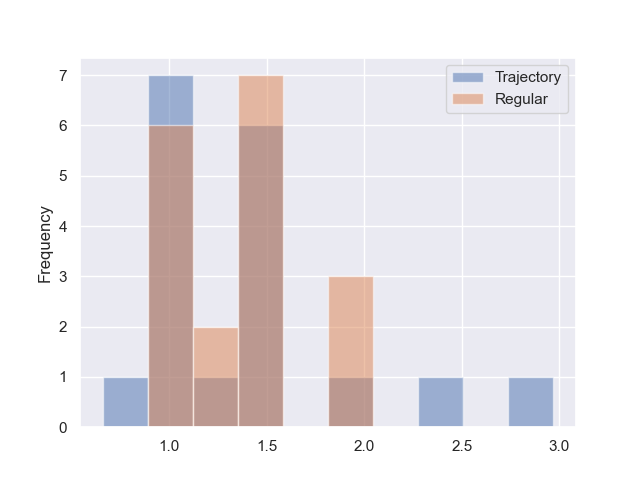
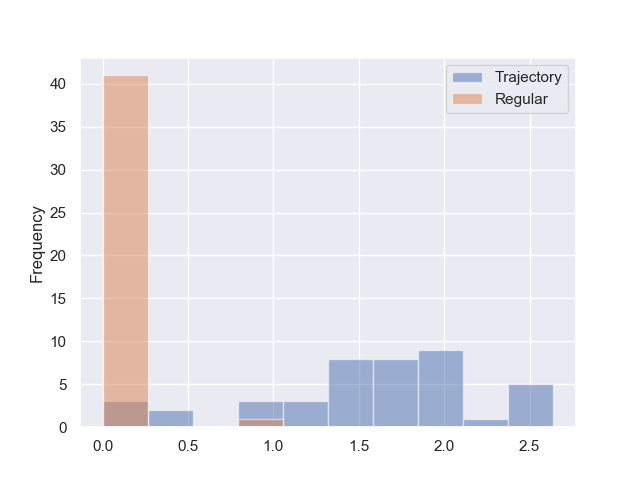
8X8 implementation

diff --git a/q_learner.py b/q_learner.py
@@ -131,28 +131,59 @@ class QLearning:
 
 
     def loss_evaluation(self):
-        rewards= np.zeros((self.map_size,self.map_size))
-        rewards[3, 3] = 1
-
-        terminal = np.zeros((self.map_size, self.map_size))
-        terminal[1, 1] = terminal[1, 3] = terminal[2, 3] = terminal[3, 0] = terminal[3,3]=1
-
         gamma = self.config['general']['gamma']
+        rewards = np.zeros((self.map_size, self.map_size))
+        rewards[self.map_size -1, self.map_size- 1] = 1
+        terminal = np.zeros((self.map_size, self.map_size))
+        if ( self.map_size==4):
 
-        next_state_vec = np.zeros(self.map_size**2)
-        for i in range(len(next_state_vec)):
-            next_state_vec[i]= np.argmax(self.q_table[i])
+            terminal[1, 1] = terminal[1, 3] = terminal[2, 3] = terminal[3, 0] = terminal[3,3]=1
 
-        next_state_q_vec = np.zeros(self.map_size**2)
-        for i in range(len(next_state_q_vec)):
-            next_state_q_vec[i] = np.max(self.q_table[int(next_state_vec[i])])
-        next_state_q = next_state_vec.reshape(self.map_size, self.map_size)
+            next_state_vec = np.zeros(self.map_size**2)
+            for i in range(len(next_state_vec)):
+                next_state_vec[i]= np.argmax(self.q_table[i])
 
-        losses = rewards + gamma*(1-terminal)*next_state_q
+            next_state_q_vec = np.zeros(self.map_size**2)
+            for i in range(len(next_state_q_vec)):
+                next_state_q_vec[i] = np.max(self.q_table[int(next_state_vec[i])])
+            next_state_q = next_state_vec.reshape(self.map_size, self.map_size)
 
-        avg_loss = [np.mean((losses[1, 0], losses[0, 1])), np.mean((losses[0, 2], losses[2, 0])),
-                    np.mean((losses[0, 3], losses[1, 2], losses[2, 1])), np.mean((losses[3, 1], losses[2, 2])),
-                    losses[3, 2], losses[3, 3]]
+            losses = rewards + gamma*(1-terminal)*next_state_q
+
+            avg_loss = [np.mean((losses[1, 0], losses[0, 1])), np.mean((losses[0, 2], losses[2, 0])),
+                        np.mean((losses[0, 3], losses[1, 2], losses[2, 1])), np.mean((losses[3, 1], losses[2, 2])),
+                        losses[3, 2], losses[3, 3]]
+        else:
+
+            terminal[7, 7] = terminal[2, 3] = terminal[3, 5] = terminal[4, 3] = terminal[5, 1]= terminal[5, 2]=1
+            terminal[5, 6] = terminal[6, 1] =  terminal[6, 4] =  terminal[6, 6] =terminal[7, 3]  = 1
+
+            next_state_vec = np.zeros(self.map_size ** 2)
+            for i in range(len(next_state_vec)):
+                next_state_vec[i] = np.argmax(self.q_table[i])
+
+            next_state_q_vec = np.zeros(self.map_size ** 2)
+            for i in range(len(next_state_q_vec)):
+                next_state_q_vec[i] = np.max(self.q_table[int(next_state_vec[i])])
+            next_state_q = next_state_vec.reshape(self.map_size, self.map_size)
+
+            losses = rewards + gamma * (1 - terminal) * next_state_q
+
+            avg_loss = [np.mean((losses[1, 0], losses[0, 1])), np.mean((losses[0, 2], losses[2, 0],losses[1,1])),
+                        np.mean((losses[0, 3], losses[1, 2], losses[2, 1], losses [3,0])),
+                        np.mean((losses[4,0],losses[3, 1], losses[2, 2],losses[1,3],losses[0,4])),
+                        np.mean((losses[4, 0], losses[3, 1], losses[2, 2], losses[1, 3], losses[0, 4])),
+                        np.mean((losses[5, 0], losses[4, 1], losses[3, 2], losses[1, 4], losses[0, 5])),
+                        np.mean((losses[6, 0], losses[4, 2], losses[3, 3], losses[2, 4], losses[1, 5],losses[0,6])),
+                        np.mean((losses[7, 0], losses[4, 3], losses[3, 4], losses[2, 5], losses[1, 6], losses[0, 7])),
+                        np.mean((losses[7, 1], losses[6, 2], losses[5, 3], losses[4, 4], losses[2, 6], losses[1, 7])),
+                        np.mean((losses[7, 2], losses[6, 3], losses[5, 4], losses[4, 5], losses[3, 6],losses[2, 7])),
+                        np.mean((losses[5, 5], losses[4, 6], losses[3, 7])),
+                        np.mean((losses[7, 4], losses[6, 5], losses[4, 7])),
+                        np.mean((losses[7, 5], losses[5, 7])),
+                        np.mean((losses[7, 6], losses[6, 7])),
+
+                        ]
         """
         plt.title(" losses by distance")
         color = 'g' if self.trajectory else 'r'

diff --git a/main.py b/main.py
@@ -15,7 +15,7 @@ def run_q_learning(config,gym_wrapper,summaries_collector_traj,summaries_collect
     rewards = [[], []]
     losses = [[],[]]
     for _ in range(3):
-        q_learner = QLearning(config, gym_wrapper, trajectory_ratio=1)
+        q_learner = QLearning(config, gym_wrapper, trajectory_ratio=0.5)
         initial_time = round(time(), 3)
         q_learner.train(summaries_collector_traj)
         trajectory_reward = q_learner.test(summaries_collector_traj, episodes=100, render=True)
@@ -23,7 +23,7 @@ def run_q_learning(config,gym_wrapper,summaries_collector_traj,summaries_collect
         summaries_collector_traj.read_summaries('test')
         losses[0] += q_learner.loss_evaluation()
 
-        q_learner = QLearning(config, gym_wrapper, trajectory_ratio=0.5)
+        q_learner = QLearning(config, gym_wrapper, trajectory_ratio=0)
         initial_time = round(time(), 3)
         q_learner.train(summaries_collector)
         no_trajectory_reward = q_learner.test(summaries_collector, episodes=100, render=True)

diff --git a/gym_wrapper.py b/gym_wrapper.py
@@ -7,7 +7,7 @@ class GymWrapper:
         self._state_size = None
     #todo: map_name - from config (omer task)
     def get_env(self):
-        env = gym.make(self.env_string,map_name="4x4",is_slippery=True)
+        env = gym.make(self.env_string,map_name="8x8",is_slippery=True)
         return env
 
     def _set_data(self):
